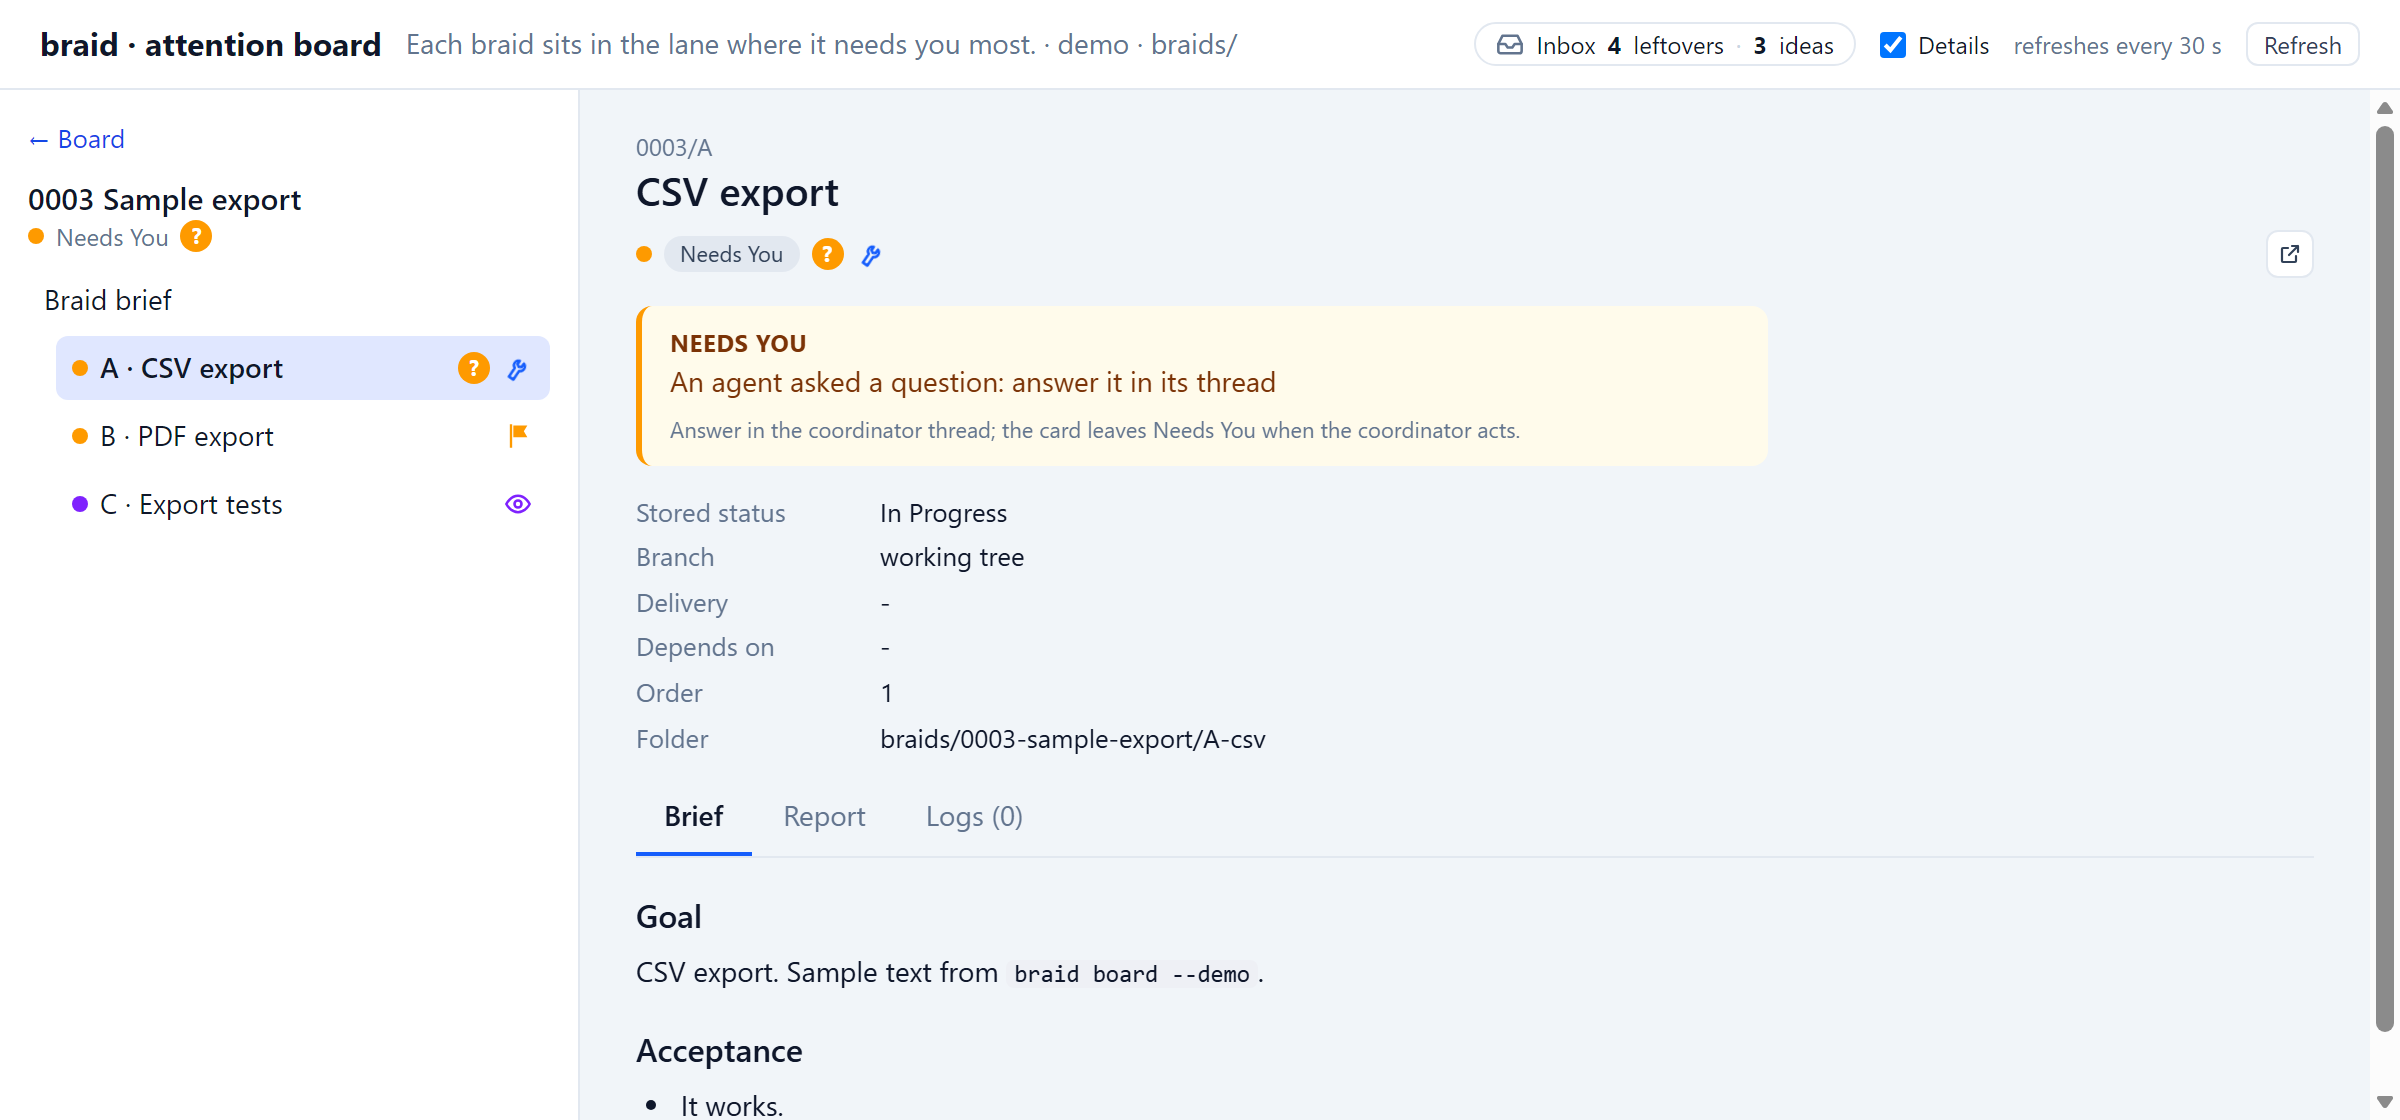
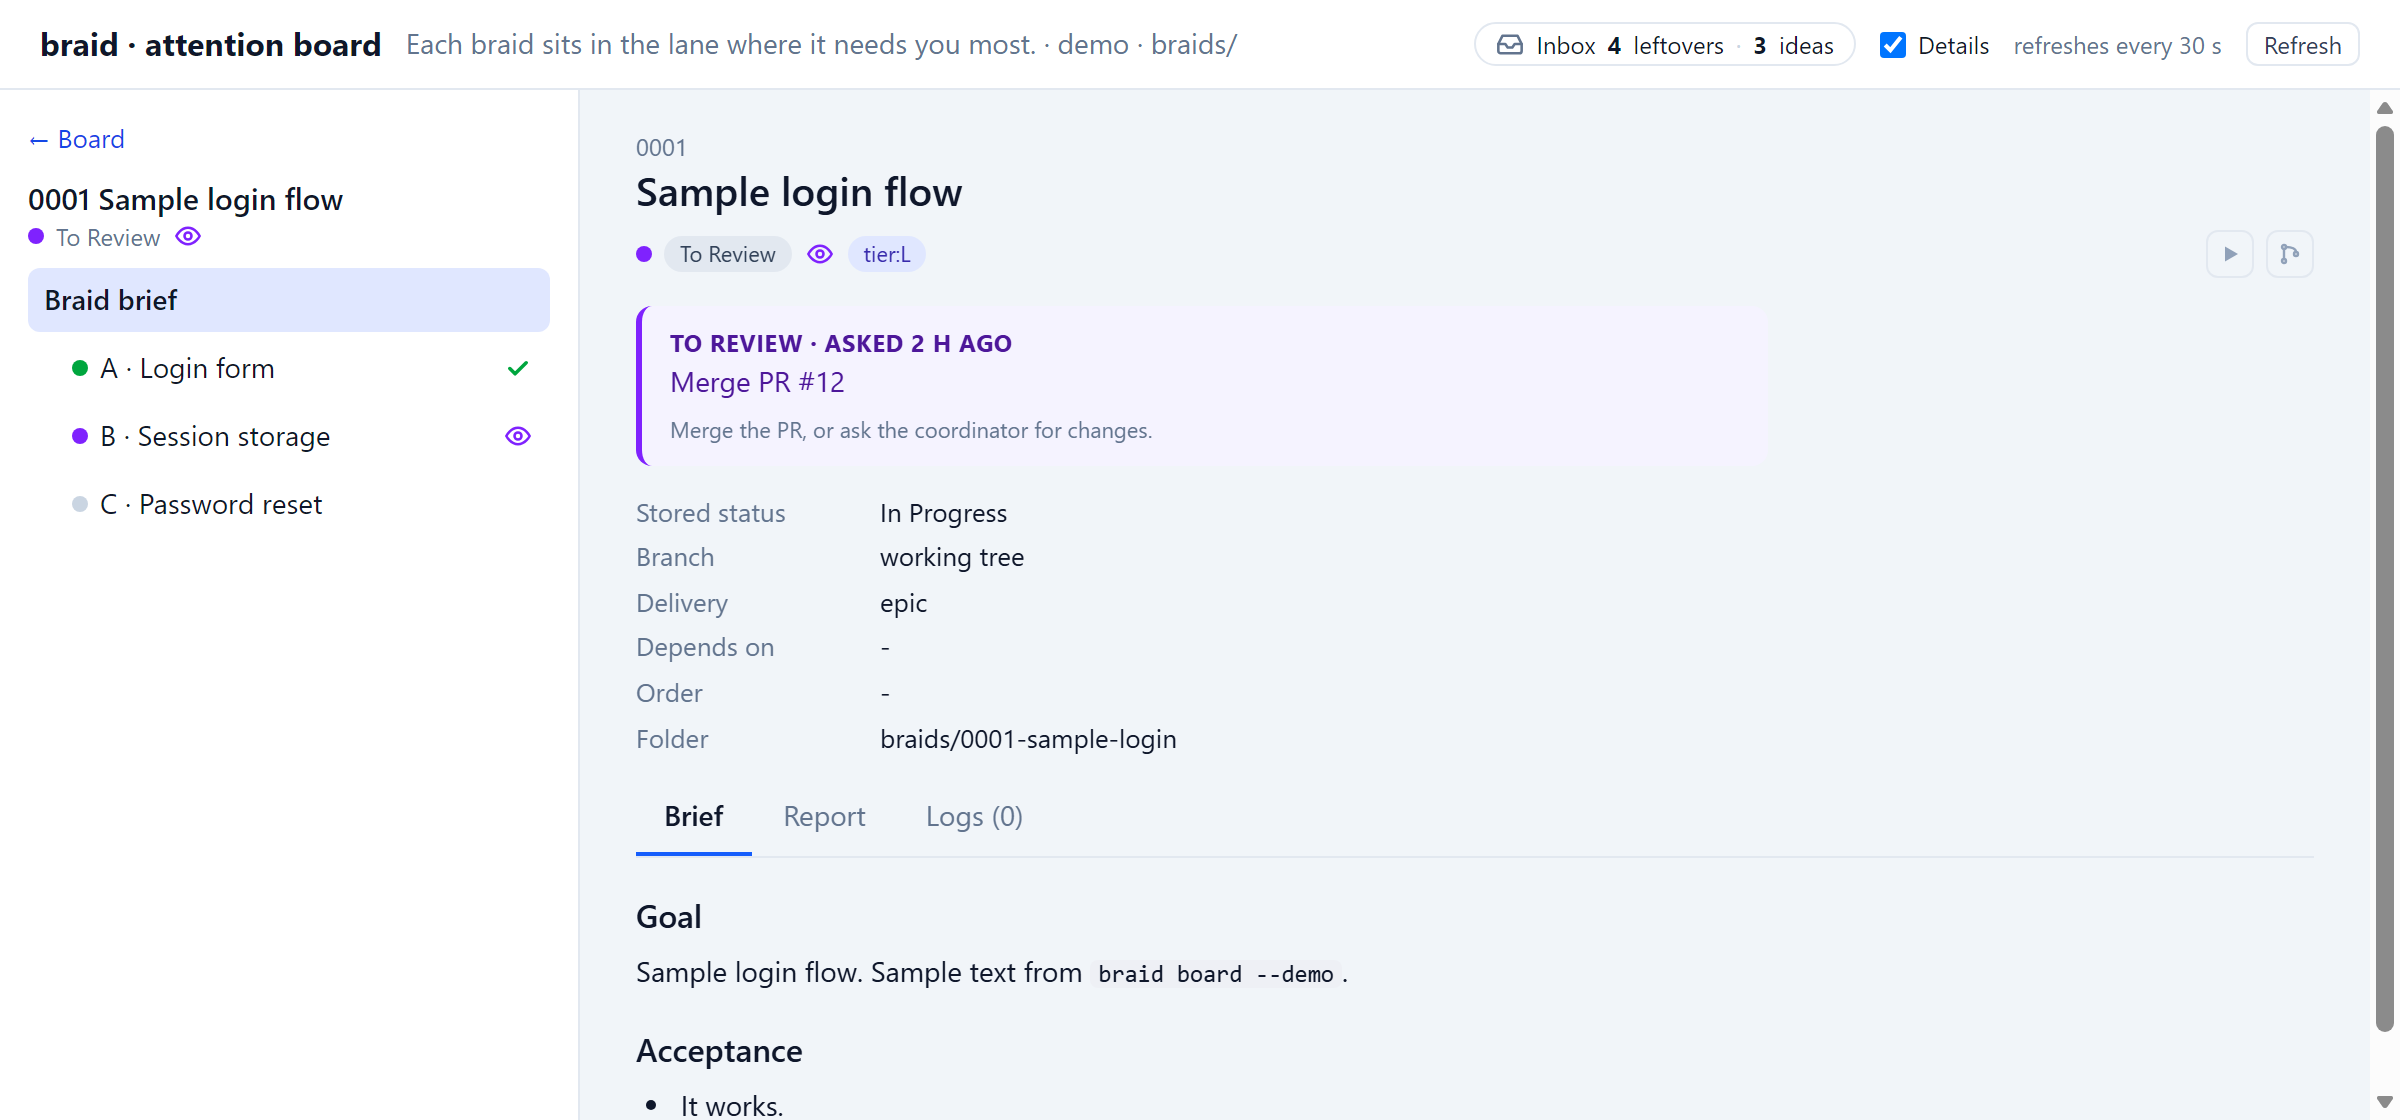
docs(readme): match reviewer claims to the tiers, fix review findings

diff --git a/docs/design/readme/flow.html b/docs/design/readme/flow.html
@@ -20,8 +20,8 @@
  <div class="box"><span class="who">You</span><h3>A goal</h3><p>“braid: add dark mode to the settings page”</p></div><div class="arrow">→</div>
  <div class="box"><span class="who">Coordinator</span><h3>A braid, split into strands</h3><p>Briefs written into <code>braids/</code>; you approve the plan.</p><div class="strands"><span>A</span><span>B</span><span>C</span></div></div><div class="arrow">→</div>
  <div class="box"><span class="who">Workers</span><h3>One strand each</h3><p>Own branch and worktree, the gate, a PR with CI green.</p></div><div class="arrow">→</div>
- <div class="box"><span class="who">Reviewers</span><h3>Independent check</h3><p>A different model reads the PR against its brief.</p></div><div class="arrow">→</div>
+ <div class="box"><span class="who">Reviewers</span><h3>Review</h3><p>Medium and large PRs get an independent reviewer; the coordinator checks small ones.</p></div><div class="arrow">→</div>
  <div class="box you"><span class="who">You</span><h3>You merge</h3><p>A short recap, then your merge into <code>main</code>.</p></div>
 </div>
-<div class="ledger"><div><b>The ledger</b> <span>&nbsp;every step is a plain file in Git</span></div><span>briefs · logs · reports · requests — any agent can pick the work up from the files</span></div>
+<div class="ledger"><div><b>The ledger</b> <span>&nbsp;every step is a plain file in Git</span></div><span>briefs · logs · reports — any agent can pick the work up from the files</span></div>
 </body></html>

diff --git a/docs/design/readme/coordinator-thread.html b/docs/design/readme/coordinator-thread.html
@@ -17,7 +17,7 @@ code{background:var(--mist);padding:1px 5px;border-radius:4px;font-size:13px}
 <div class="msg"><div class="you">braid: add dark mode to the settings page</div></div>
 <div class="msg bot"><div class="lbl">Plan · waiting for your go</div>
 <p>This is a goal, so I split it into one braid with three strands that run in order. Nothing has started.</p>
-<ul><li><b>A · Theme tokens</b> (tier S): colours as variables, light and dark sets.</li>
+<ul><li><b>A · Theme tokens</b> (tier M): colours as variables, light and dark sets.</li>
 <li><b>B · Settings toggle</b> (tier M): a Light / Dark / System switch on the settings page.</li>
 <li><b>C · Remember the choice</b> (tier S): store it per user, add tests.</li></ul>
 <p class="note">Ask first: C changes what is stored per user (<code>data</code>). I'll stop for you before it merges. Overlap check: no other open braid touches these files.</p>
@@ -26,7 +26,7 @@ code{background:var(--mist);padding:1px 5px;border-radius:4px;font-size:13px}
 <div class="msg bot"><div class="lbl">Recap · strand A</div>
 <p><b>Theme tokens</b> is ready: PR #87 into <code>braid/0042-dark-mode</code>.</p>
 <ul><li>Worker: gate passed, CI <span class="ok">green</span> on the head commit.</li>
-<li>Reviewer (a different model): nothing blocking, one nit fixed.</li>
+<li>Independent reviewer: nothing blocking, one nit fixed.</li>
 <li>Needs you: <b>none</b>.</li></ul>
 <p>Merge it when you are ready, or tell me what to change.</p></div>
 </body></html>

diff --git a/README.md b/README.md
@@ -12,7 +12,7 @@
   <a href="LICENSE"><img src="https://img.shields.io/badge/licence-MIT-082A48" alt="MIT licence"></a>
 </p>
 
-Tell braid a goal. It splits the goal into small work items, has a coding agent build each one on its own branch, has a different agent review it, and hands you pull requests that are ready to merge. Everything is written down as plain files in your repository, so nothing depends on one chat staying alive.
+Tell braid a goal. It splits the goal into small work items, has a coding agent build each one on its own branch, has the work reviewed, and hands you pull requests that are ready to merge. Everything is written down as plain files in your repository, so nothing depends on one chat staying alive.
 
 <p align="center">
   <img src="docs/images/board.png" alt="The braid attention board on sample data: lanes Needs You, To Review, Working, To Do and Done" width="900">
@@ -22,10 +22,10 @@ Tell braid a goal. It splits the goal into small work items, has a coding agent 
 ## What it can do
 
 - **Plan a goal into reviewed pull requests.** Say "braid: add dark mode"; you get a plan to approve, then one PR per part.
-- **Review by an independent agent.** Every PR is read against its brief before it reaches you, by a reviewer you can set to a different model than the worker's.
+- **Review before it reaches you.** Medium and large changes get an independent reviewer (you can set it to a different model than the worker's); the coordinator checks small ones itself, and in auto mode every strand gets a reviewer.
 - **Resume from the files.** Briefs, logs and reports live in `braids/`; after a crash or in a new session any agent continues from them.
 - **See what needs you.** `braid board` shows what waits on you, and can Start a braid, ask the coordinator to merge, and open an agent's thread.
-- **Check in from your phone.** The board has a phone layout, and `braid board --host` serves it on your Tailscale network, to your own login only.
+- **Check in from your phone.** The board has a phone layout, and `braid board --host tailscale` serves it on your Tailscale network, to your own login only.
 - **Stops and asks when a decision is yours.** Security, a new dependency, stored data, an effect outside the repository, a change of scope: it waits for you.
 - **Auto mode for a goal.** Its strand PRs merge into the goal's branch once seven conditions hold; the final PR into `main` is always yours.
 - **Capture ideas without breaking flow.** `$braid-idea` and `braid note` park an idea or a leftover in an inbox the board shows.
@@ -36,7 +36,7 @@ Tell braid a goal. It splits the goal into small work items, has a coding agent 
 | The problem | What braid does |
 | --- | --- |
 | Agents lose context between sessions. | Plan, decisions and progress are files in Git (brief, per-thread logs, report), so a fresh agent reads them instead of guessing. |
-| Agent code goes in unreviewed. | One writer per branch, a separate reviewer judging the PR against its brief, and a merge that is yours. |
+| Agent code goes in unreviewed. | One writer per branch, an independent reviewer on medium and large changes (the coordinator checks small ones), and a merge that is yours. |
 | You can't tell what needs you. | The board puts what waits on you in its own lane, with the reason on each card; red only where something went wrong. |
 | The work is stuck in one chat. | Items, not conversations, are the unit: any thread can pick one up from its folder in `braids/`. |
 
@@ -53,12 +53,12 @@ You ask for dark mode. Here is what happens next.
    *Illustrative mock-up, not a real thread: the plan, and later the recap.*
 
 2. **A worker builds strand A** on its own branch and worktree, runs the project's gate and opens a PR with CI green.
-3. **A reviewer checks the PR** against the brief; findings go back to the worker.
+3. **A reviewer checks the PR** against the brief (for a small strand, the coordinator reads the diff); findings go back to the worker.
 4. **You get a recap** and merge or ask for changes. Until then the board shows the item where you can act on it:
 
-   <img src="docs/images/item-page.png" alt="An item page on the board: the strand with its Needs You request, its brief and report" width="760">
+   <img src="docs/images/item-page.png" alt="An item page on the board: a braid with its strands and the request to merge PR #12" width="760">
 
-   *A strand page on the board's sample data, with its request for you.*
+   *A braid page on the board's sample data, with the request to merge a PR.*
 
 5. **Strands B and C follow.** In auto mode the strand PRs merge into the goal's branch for you; the final PR into `main` is yours either way.
 
@@ -71,15 +71,15 @@ Away from your desk, the same board fits a phone, and the inbox keeps ideas and 
 <p align="center">
   <img src="docs/images/board-phone.png" alt="The board on a phone: tabs for Needs you, Review, Working, To Do and Done" width="260">
   &nbsp;&nbsp;
-  <img src="docs/images/inbox.png" alt="The inbox page: leftovers and ideas, each with its source and age" width="560">
+  <img src="docs/images/inbox.png" alt="The inbox page on a phone: leftovers, each with its source and age" width="260">
 </p>
-<p align="center"><em>The phone layout (one lane at a time) and the idea inbox, on sample data.</em></p>
+<p align="center"><em>The phone layout (one lane at a time) and the inbox of leftovers, on sample data.</em></p>
 
 ## The parts
 
 - **A coordinator** is the agent you talk to. It plans with you, launches the other agents and reports back.
 - **Workers** each do one item on their own branch and worktree, run the gate and open a PR.
-- **Reviewers** check each PR independently before it reaches you.
+- **Reviewers** check medium and large PRs independently before they reach you.
 - **Braids and strands:** a braid is a story or a goal; a goal is split into strands, its parts, which run in order.
 - **The ledger** is the `braids/` folder: one folder per braid and strand with its brief, logs and report, plain Markdown in Git, managed with the `braid` CLI.
 

diff --git a/docs/design/readme/README.md b/docs/design/readme/README.md
@@ -11,8 +11,8 @@ Taken from `braid board --demo` (sample data, nothing is read or written; see [t
 | File | Address | Window (CSS px) |
 | --- | --- | --- |
 | `board.png` (hero) | `http://127.0.0.1:47321/#/` | 1440 × 900 |
-| `item-page.png` | `http://127.0.0.1:47321/#/0003/A` | 1200 × 560 |
-| `inbox.png` | `http://127.0.0.1:47321/#/inbox` | 1200 × 800 |
+| `item-page.png` | `http://127.0.0.1:47321/#/0001` | 1200 × 560 |
+| `inbox.png` | `http://127.0.0.1:47321/#/inbox` | 390 × 510, mobile emulation, cut after the second leftover (the demo inbox lists a not-yet-built idea and an outdated leftover, which the README should not show) |
 | `board-phone.png` | `http://127.0.0.1:47321/#/` | 390 × 844, mobile emulation |
 
 `edge --headless --screenshot` captured the page before it loaded, because the board keeps a live refresh stream open. The captures were made over the browser's debugging port (`Emulation.setDeviceMetricsOverride`, wait for the text, `Page.captureScreenshot`) at a device scale factor of 2.
@@ -23,7 +23,7 @@ Plain HTML with inline CSS, no scripts and no external fonts.
 
 | File | Source | Window (CSS px) | Shows |
 | --- | --- | --- | --- |
-| `coordinator-thread.png` | [`coordinator-thread.html`](coordinator-thread.html) | 900 × 700 | A coordinator thread for "add dark mode": the plan with strands A to C and its ask-first line, then the recap of strand A. Sample wording, not a real thread. |
+| `coordinator-thread.png` | [`coordinator-thread.html`](coordinator-thread.html) | 900 × 700 | A coordinator thread for "add dark mode": the plan with strands A to C (A and B tier M, so an independent reviewer; C tier S) and its ask-first line on C, then the recap of strand A. Sample wording, not a real thread. |
 | `flow.png` | [`flow.html`](flow.html) | 1100 × 380 | Goal, braid and strands, workers, reviewers, you merge; the ledger underneath. |
 
 Open the HTML file in a browser at the window size above and capture it at 2x, the same way as the real screens.

diff --git a/braids/0032-readme-that-sells-braid-what-it-can-do/report.md b/braids/0032-readme-that-sells-braid-what-it-can-do/report.md
@@ -15,7 +15,7 @@
 | README claim | Backed by |
 | --- | --- |
 | Plan a goal into strands, PR per part, you approve the plan | `.agents/skills/braid/SKILL.md`, [workflow](../../.agents/skills/braid/references/workflow.md) |
-| Independent review, reviewer settable to another model | `braid-reviewer` skill, `models` in `BRAID.md` (D11, D28) |
+| Independent review for tier M and L (and in auto mode every strand); the coordinator checks tier S; reviewer settable to another model | workflow tiers table, `references/auto-mode.md`, `models` in `BRAID.md` (D11, D28) |
 | Resume from the files | D08, D34, D35 (`braids/` folders, per-thread logs) |
 | Board: what needs you, Start, Merge, Open thread | `docs/board.md`, D46, D51, D52 |
 | Phone layout; `--host` on Tailscale, own login only | D59, D60, `docs/board.md` |

diff --git a/braids/0032-readme-that-sells-braid-what-it-can-do/log-2026-11-19-e5c044ab.md b/braids/0032-readme-that-sells-braid-what-it-can-do/log-2026-11-19-e5c044ab.md
@@ -5,3 +5,7 @@ Proposal made: outline, draft text and six images (4 real board shots, 2 illustr
 ## 2026-11-19 15:47Z
 
 User verdict applied: shape as proposed, light images only, board hero; coordinator mock-up fixed (ask-first line now names strand C). Final README written (140 lines), image notes in docs/design/readme/README.md, gate passed.
+
+## 2026-11-19 16:07Z
+
+Review findings fixed: reviewer claims now follow the tiers (README, both mock-ups; strand A is tier M), `--host tailscale`, item page uses demo 0001, inbox shot cropped to two leftovers, "requests" removed from the ledger box. Gate passed.
